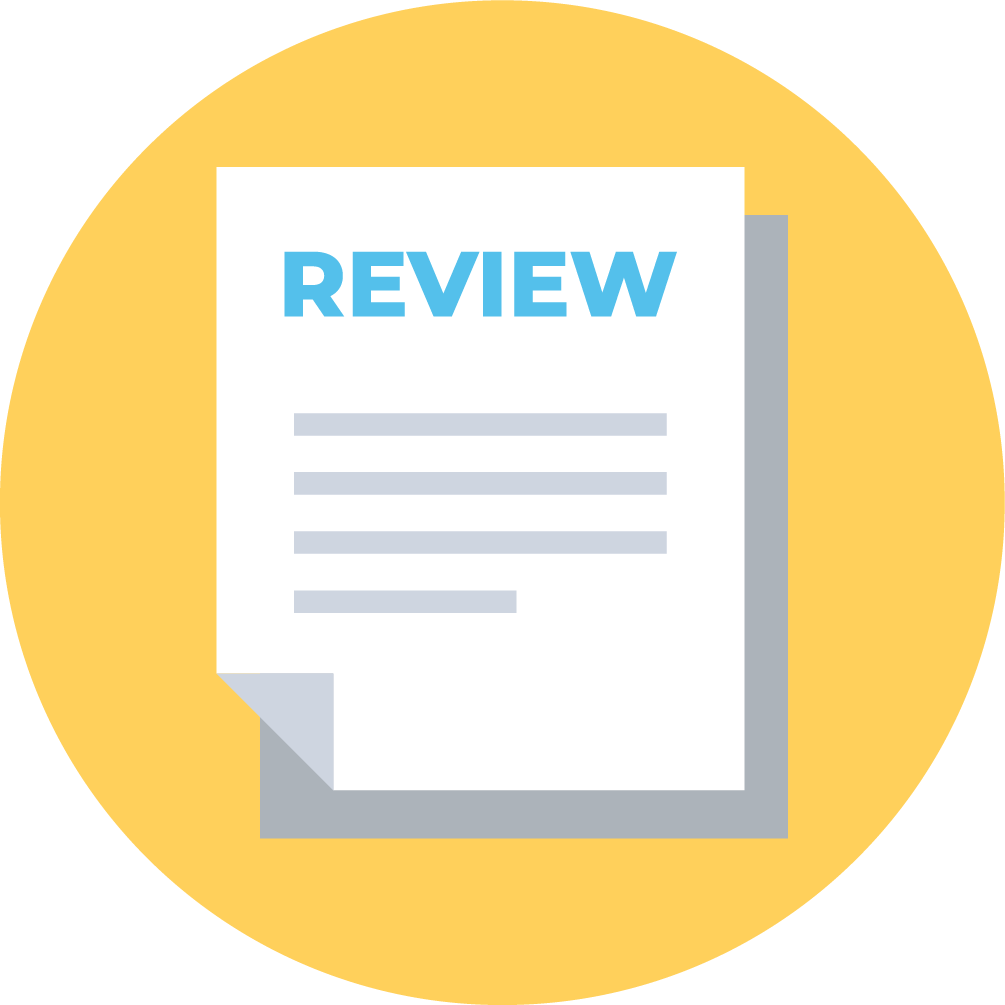
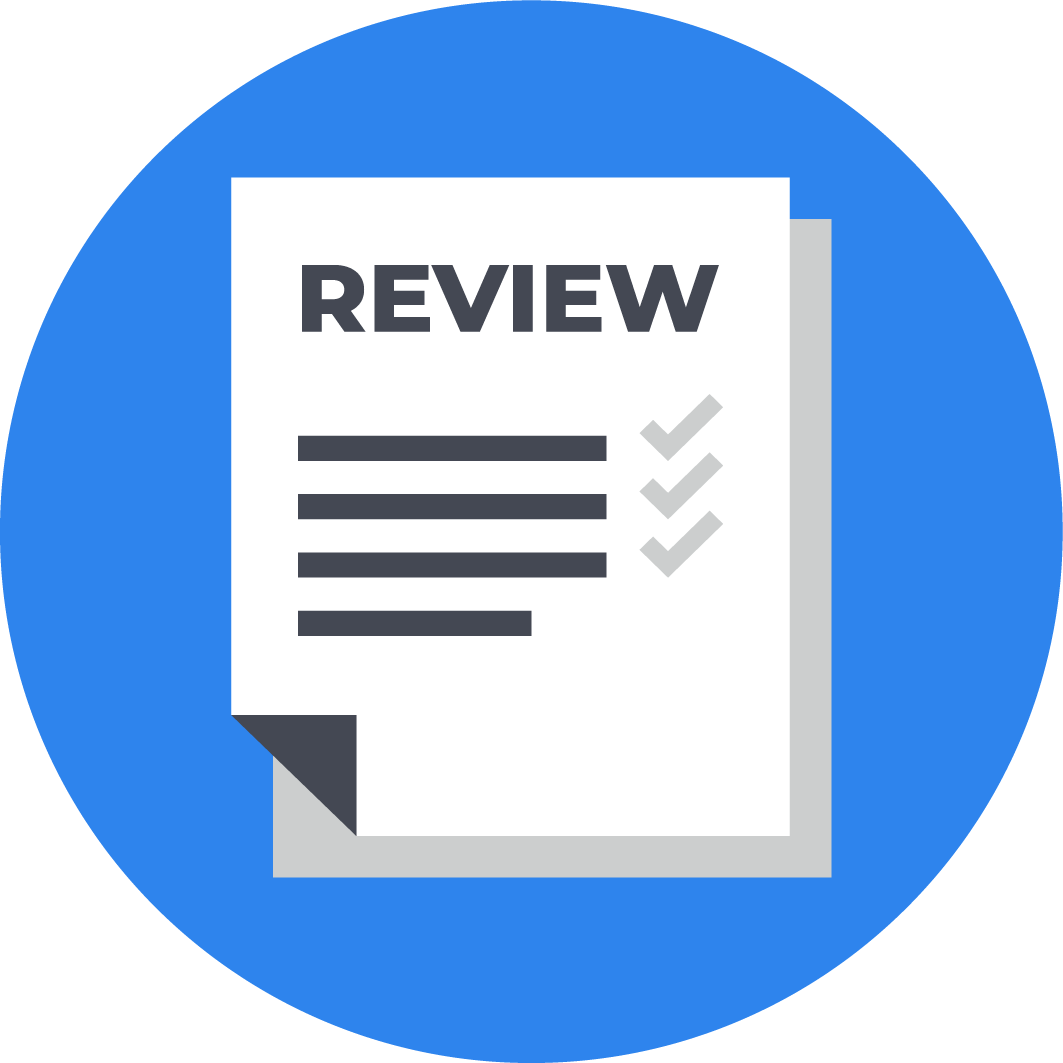
Settlement Review Help pages added
Also updated all icons for more consistent color application.

diff --git a/demo/settlement/help/index.html b/demo/settlement/help/index.html
@@ -62,10 +62,35 @@
         <div class="carousel" data-flickity-options="{ 'wrapAround': true, 'prevNextButtons': true }">
           <div class="carousel-cell center">
             <div class="graphic"><img src="../../../assets/images/ob-settlement-review.png" alt="Clipboard with a checkmark graphic"></div>
-            <h1>Success!</h1>
-            <p>Your claim has been successfully submitted.</p>
+            <h1>Your Settlement Offer</h1>
+            <p>Your Settlement Offer is ready! Here is some information to help you understand the details of your Settlement Offer.</p>
           </div>
-          <div class="carousel-cell center last">
+          <div class="carousel-cell center">
+            <div class="graphic wide"><img src="../../../assets/images/ob-settlment-review-personal-property.png" alt="Actual Cash Value graphic"></div>
+            <ul style="display: flex; flex-direction: row; justify-content: space-between; width: 100%; padding: 1rem 0 1.44rem; font-size: 0.694rem; font-weight: 500; line-height: 1; list-style: none; text-transform: uppercase;">
+              <li style="width: 30%; padding: 0; text-align: left;">Replacement Cost</li>
+              <li style="width: 30%; padding: 0; text-align: center;">Depreciation</li>
+              <li style="width: 30%; padding: 0; text-align: right;">Actual Cash Value</li>
+            </ul>
+            <h2>Personal Property Coverage</h2>
+            <p>Actual Cash Value means your belongings are covered for Replacement Cost minus Depreciation, reflecting the decrease in the item’s value due to its Age, Condition, and other factors.</p>
+          </div>
+          <div class="carousel-cell center">
+            <div class="graphic"><img src="../../../assets/images/ob-settlement-special-limits.png" alt="Diamond ring graphic"></div>
+            <h2>Special Policy Limits</h2>
+            <p>Some categories of Personal Property Coverage may have a maximum dollar limit by group, such as Jewelry.</p>
+          </div>
+          <div class="carousel-cell center">
+            <div class="graphic"><img src="../../../assets/images/ob-settlement-deductible.png" alt="Deductible graphic"></div>
+            <h2>Deductible</h2>
+            <p>When you file a claim for a covered loss you may be responsible for paying a set dollar amount toward the damages, called a Deductible, to repair or replace whatever is damaged or stolen.</p>
+          </div>
+          <div class="carousel-cell center">
+            <div class="graphic"><img src="../../../assets/images/ob-settlement-report.png" alt="Report graphic"></div>
+            <h2>Settlement Report</h2>
+            <p>A Settlement Report is available for download which summarizes your settlement and provides line item details.</p>
+          </div>
+          <div class="carousel-cell center">
             <h2>Ready to review your settlement?</h2>
             <a href="../settlement-offer/index.html" class="button color-one" style="margin-top: 1rem;">Let's Go</a>
           </div>

diff --git a/atoms/header/header.html b/atoms/header/header.html
@@ -29,6 +29,7 @@
       <div class="logo">
         <svg id="logo" xmlns="http://www.w3.org/2000/svg" viewBox="0 0 184.57 37.49"><defs><style>.cls-1{fill:#f27e20;}</style></defs><path d="M98.78,26.51H81.05c-.54,5.1,6,8.71,13.27,4.53l2.23,4.26a23.69,23.69,0,0,1-2.7,1.37,20,20,0,0,1-9.31.79c-5.14-.64-8.49-3.94-9.52-9.53-1.28-7,1.88-13.06,7.93-15.32,5.55-2.08,14,0,16,7.26A13.94,13.94,0,0,1,98.78,26.51ZM81.31,22.08H93.16c-.09-3.39-2.1-5.32-5.58-5.45S81.79,18.56,81.31,22.08Z" transform="translate(-0.22 -0.25)"/><path d="M6.4,26.44c-.17,6,7.14,8.37,13.2,4.62l2.14,4.06c-4.7,3.74-14,3.31-18.14-.74-3-3-3.6-6.72-3.32-10.65.35-5,2.78-8.84,7.46-10.84a12.1,12.1,0,0,1,12.9,1.6c3.77,3,4.69,7.12,3.57,12Zm12.2-4.37c-.17-3.43-2.1-5.28-5.6-5.44a5.77,5.77,0,0,0-6.25,5.44Z" transform="translate(-0.22 -0.25)"/><path d="M172.84,37.59c-7.56.35-12.41-5.07-12.12-13.46A12.83,12.83,0,0,1,165,14.47c4.87-4.31,17.1-4,19.31,6.08A17.82,17.82,0,0,1,184,30,10.74,10.74,0,0,1,172.84,37.59Zm-.56-4.72c3.08,0,4.9-1.22,5.81-4a13,13,0,0,0,.12-8.17c-.8-2.64-2.43-4-5-4.16A5.24,5.24,0,0,0,167.65,20a12.59,12.59,0,0,0,0,9.75A4.46,4.46,0,0,0,172.28,32.87Z" transform="translate(-0.22 -0.25)"/><path d="M34.56,19.15V37H28.92V12.48h4L34,14.42a10.66,10.66,0,0,1,10-2.17c3.55.91,6,3.28,6.24,6.78.4,5.95.11,12,.11,18H44.9V23.58c0-.42,0-.85,0-1.28-.13-2-.38-4.08-2.51-5.08a6.17,6.17,0,0,0-6.46.76C35.45,18.3,35.06,18.72,34.56,19.15Z" transform="translate(-0.22 -0.25)"/><path d="M54.91,35.63l1.89-4.2c1.75.54,3.38,1.11,5.06,1.52a6.74,6.74,0,0,0,2.1,0A2.16,2.16,0,0,0,66.2,31.3a2.71,2.71,0,0,0-1.06-3c-1.12-.75-2.37-1.29-3.54-2a28.66,28.66,0,0,1-4.4-2.58,6.3,6.3,0,0,1,1.66-10.93c4.09-1.71,8-1,12.06.8L69.28,18a9.25,9.25,0,0,0-5.85-1.48,2.4,2.4,0,0,0-2.56,1.82A2.33,2.33,0,0,0,62.3,21c1.18.65,2.47,1.09,3.68,1.69a20.79,20.79,0,0,1,3.89,2.18,6.94,6.94,0,0,1-1.48,11.7A14.76,14.76,0,0,1,54.91,35.63Z" transform="translate(-0.22 -0.25)"/><path d="M120.41,12.43h6.32l6,15.08c2.29-5.33,4.4-10.23,6.5-15.13h6.11c-3.89,8.5-7.67,16.79-11.48,25.12H131.6C127.9,29.21,124.21,20.93,120.41,12.43Z" transform="translate(-0.22 -0.25)"/><path d="M103.2,12.37h5.46l.44,1.83c3.33-2.65,6.86-3,10.86-1.46l-2.35,4.81c-.52-.19-1-.37-1.42-.51a5.33,5.33,0,0,0-7.14,4.6,19.88,19.88,0,0,0-.16,2.56c0,3.57,0,7.14,0,10.71v2.18H103.2Z" transform="translate(-0.22 -0.25)"/><path d="M151.15,17.16l-3-.2V12.45h8.69V37h-5.69Z" transform="translate(-0.22 -0.25)"/><path class="cls-1" d="M153.54.25a3.2,3.2,0,0,1,3.31,3.13,3.42,3.42,0,0,1-3.29,3.27,3.33,3.33,0,0,1-3.29-3.22A3.21,3.21,0,0,1,153.54.25Z" transform="translate(-0.22 -0.25)"/></svg>
       </div>
+<!--
       <nav>
         <ul>
           <li class="back"><a href="#!"><span><i class="la la-angle-left"></i></span>Back</a></li>
@@ -36,6 +37,7 @@
           <li class="logout"><a href="#!"><span><i class="la la-sign-out"></i></span>Log Out</a></li>
         </ul>
       </nav>
+-->
     </header>
     <main>
       <section id="header-atom">

diff --git a/demo/inventory/help/index.html b/demo/inventory/help/index.html
@@ -77,19 +77,19 @@
           </div>
           <div class="carousel-cell center">
             <div class="graphic wide"><img src="../../../assets/images/ob-inv-attachments.png" alt="Add Attachments button graphic"></div>
-            <span class="button color-two" style="margin: 0 auto 2rem;">Add Attachments<span class="post"><i class="la la-paperclip"></i></span></span>
+            <span class="button color-two" style="margin: 1rem auto 2rem;">Add Attachments<span class="post"><i class="la la-paperclip"></i></span></span>
             <h1>Upload Attachments</h1>
             <p>Upload attachments to an item, such as a photograph or the original receipt, by clicking the <b>Add Attachments</b> button.</p>
           </div>
           <div class="carousel-cell center">
             <div class="graphic wide"><img src="../../../assets/images/ob-inv-add-item.png" alt="Add Item To Inventory button graphic"></div>
-            <span class="button color-one" style="margin: 0 auto 2rem;">Add Item to Inventory</span>
+            <span class="button color-one" style="margin: 1rem auto 2rem;">Add Item to Inventory</span>
             <h1>Add Item to Inventory</h1>
             <p>Add the item to your inventory by clicking the <b>Add Item To Inventory</b> button. You will still be able to edit this item's details later if you need to.</p>
           </div>
           <div class="carousel-cell center">
             <div class="graphic wide"><img src="../../../assets/images/ob-inv-submit-inventory.png" alt="Submit Inventory button graphic"></div>
-            <span class="button secondary color-one" style="margin: 0 auto 2rem;">Submit Inventory</span>
+            <span class="button secondary color-one" style="margin: 1rem auto 2rem;">Submit Inventory</span>
             <h1>Submit Inventory</h1>
             <p>Complete your inventory by clicking the <b>Submit Inventory</b> button.</p>
           </div>

diff --git a/assets/css/master.scss b/assets/css/master.scss
@@ -950,7 +950,7 @@ span.back:hover, span.back:focus {color: $color-two;}
 footer {
   display: flex;
   flex-direction: column;
-  align-items: flex-start;
+  align-items: center;
   justify-content: center;
   width: 100%;
   margin: 0 auto;

diff --git a/assets/css/master.css b/assets/css/master.css
@@ -876,7 +876,7 @@ span.back:hover, span.back:focus {
 footer {
   display: flex;
   flex-direction: column;
-  align-items: flex-start;
+  align-items: center;
   justify-content: center;
   width: 100%;
   margin: 0 auto;

diff --git a/assets/css/guide.css b/assets/css/guide.css
@@ -75,6 +75,9 @@ ul.contents li a {
   ul.contents li {
     width: calc(100% / 2.25); } }
 
+footer {
+  align-items: flex-start; }
+
 footer ul {
   display: flex;
   flex-direction: row;

diff --git a/assets/css/guide.scss b/assets/css/guide.scss
@@ -98,6 +98,8 @@ ul.contents li {width: calc(100% / 2.25);}}
 
 
 // GUIDE FOOTER NAV
+footer {align-items: flex-start;}
+
 footer ul {
   display: flex;
   flex-direction: row;
